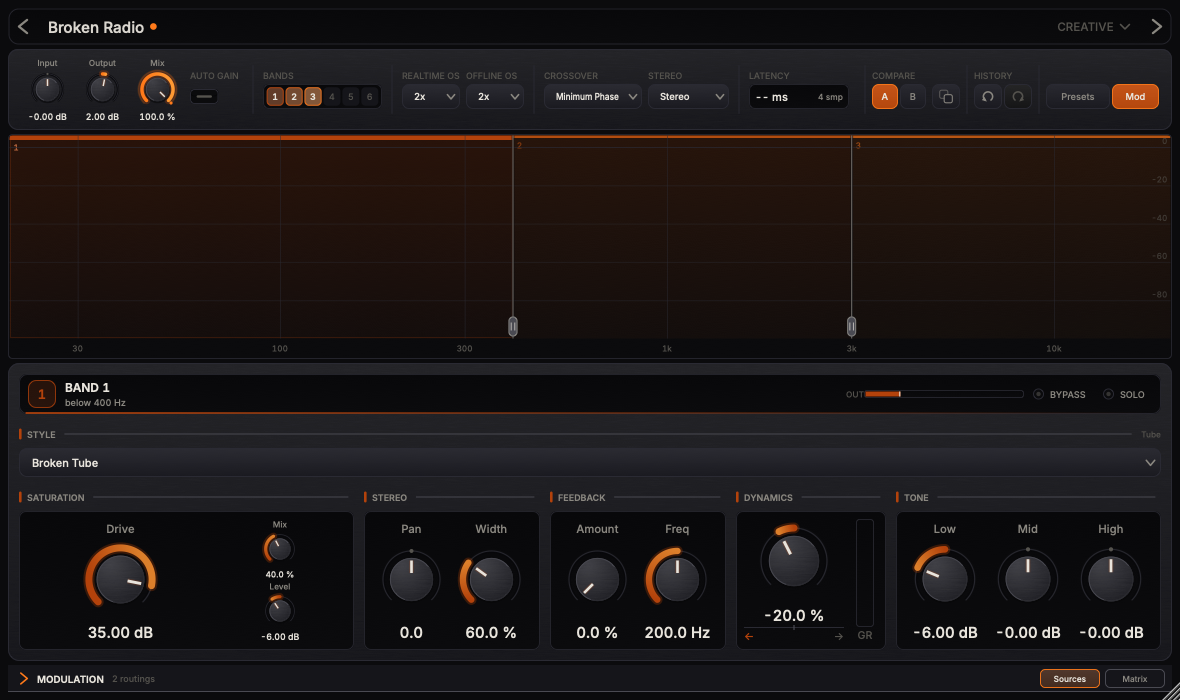
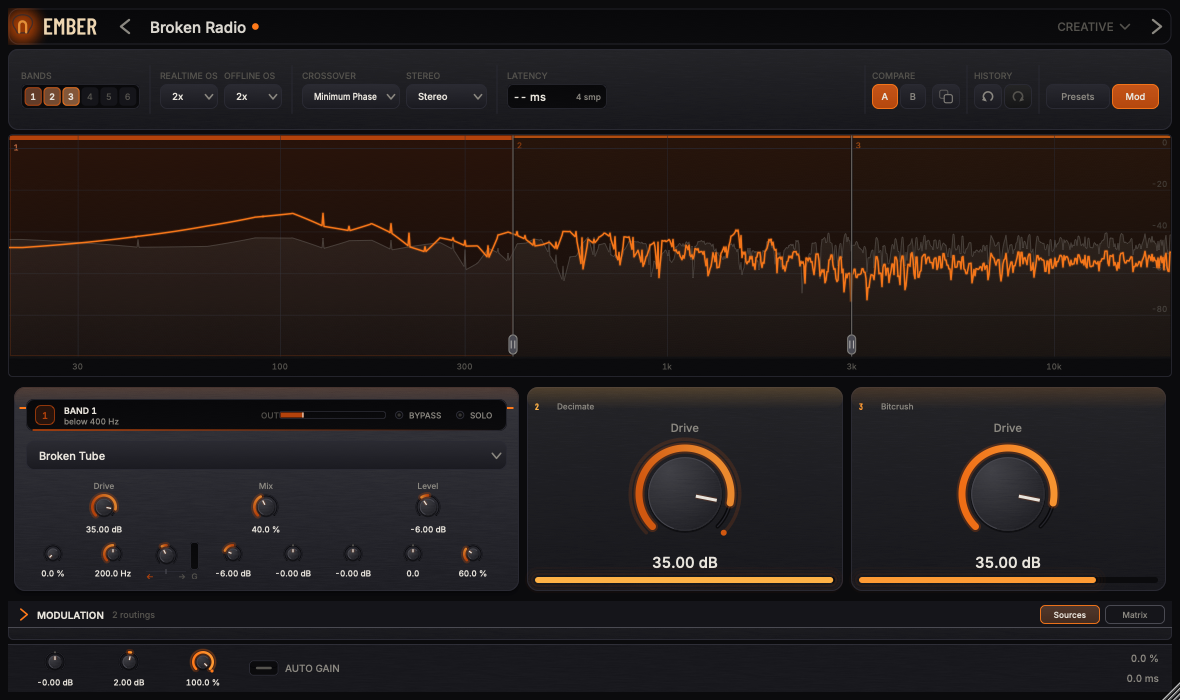
Render the editor with audio flowing, not before it
Every screenshot taken so far had an empty spectrum, and the reason was the
render tool, not the plugin: it pushed audio through, then created the editor.
The analyser only runs while an editor is open - it is skipped otherwise,
which is what keeps a headless instance cheap - so nothing was ever analysed
while there was a display to draw it on.

Audio now runs after createEditor, and the screenshots show what the plugin
actually looks like: input as a dim curve, output as a bright ember trace.
The heat readout moved after the audio too, for the same reason.

diff --git a/tools/render_editor.cpp b/tools/render_editor.cpp
@@ -50,8 +50,19 @@ int main(int argc, char** argv)
         std::printf("drive %.1f dB on every band\n", static_cast<double>(driveDb));
     }
 
-    // Push audio through first so the spectrum display and the meters have real
-    // data to draw, rather than photographing an idle plugin.
+
+    std::unique_ptr<juce::AudioProcessorEditor> editor(proc.createEditor());
+    if (editor == nullptr)
+    {
+        std::puts("createEditor() returned null");
+        return 1;
+    }
+    editor->setSize(width, height);
+
+    // Audio runs AFTER the editor exists. The spectrum analyser is only
+    // switched on while an editor is open - it is skipped otherwise, which is
+    // what keeps a headless instance cheap - so pushing audio first produced a
+    // perfectly empty display in every screenshot taken so far.
     {
         juce::AudioBuffer<float> buf(2, 512);
         juce::MidiBuffer midi;
@@ -65,16 +76,10 @@ int main(int argc, char** argv)
         }
     }
 
+
+
     for (int b = 0; b < 3; ++b)
         std::printf("band %d heat %.3f\n", b, static_cast<double>(proc.getBandHeat(b)));
-
-    std::unique_ptr<juce::AudioProcessorEditor> editor(proc.createEditor());
-    if (editor == nullptr)
-    {
-        std::puts("createEditor() returned null");
-        return 1;
-    }
-    editor->setSize(width, height);
 
     // Let the panels' timers run so spectra, meters and modulation readouts
     // populate. The plugin is built with JUCE_MODAL_LOOPS_PERMITTED=0, so a
